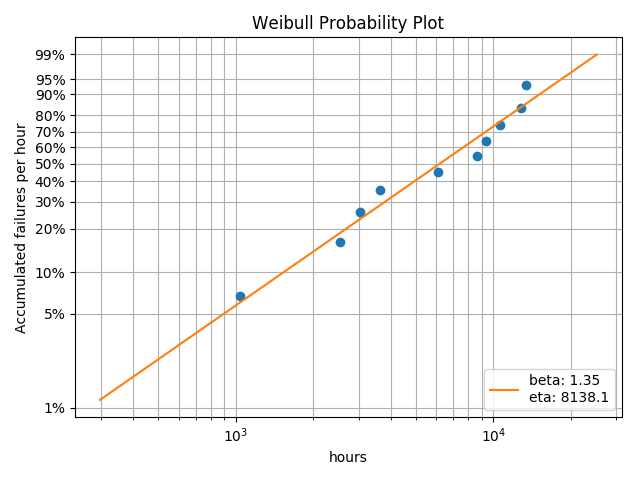
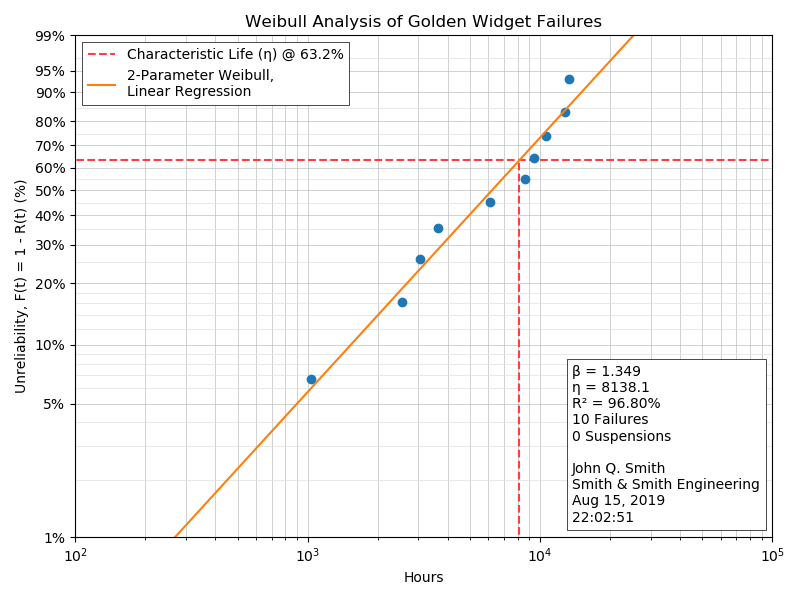
Revisions for 'probplot' enhancements
Added descriptions of new features and explanations for how to use them.

Changed region(s): [[0.0, 0.0312, 1.0, 0.9375], [0.5, 0.9375, 0.5938, 0.9688]]

diff --git a/docs/analysis.rst b/docs/analysis.rst
@@ -71,7 +71,27 @@ Building on the ``analysis`` instance above, we will examine the probability plo
 
 .. image:: images/weibull-fit-10pt.png
 
-We can also examine a number of other common function plots (only the hazard plot is shown, but the others are along the same line).::
+There are some settings for the Weibull probability plots that will allow the user to add more information to the plot itself that are useful when the plot will be included in reports, on web pages, or other situations where the supporting information may not always accompany the plot.  These include being able to specify the Analyst's name and/or the Company or Organization name.
+
+    analysis.analyst = 'John Q. Doe'
+    analysis.company = 'Smith & Smith Engineering'
+
+It should be noted that if either the Analyst or Company name is especially long, the annotation box (where they are displayed) will expand to fit the text which could obscure some portions of the Weibull plot.  To address this, you can place a line feed ('\n') within either name which will force the text to wrap to a shorter length.  These must be defined before calling the ``probplot`` function.
+
+Also, the user can now provide their own more descriptive title for the plot, use the default title, or suppress the title altogether, as follows::
+
+    analysis.plot_title = 'Weibull Analysis of Golden Widget Failures'
+
+Setting the title to a zero-length string (or not defining one at all) will cause the default title of 'Weibull Probability Plot' to be used.  Setting the title to ``None`` will suppress the title line altogether.  Any other value set for ``analysis.plot_title`` will be displayed on the Weibull plot.  This too must be defined before calling the ``probplot`` function.
+
+By default, the probability plot will now be 12 inch x 8 inch (1200 x 800 pixels) to better display enhancements made to the plot format, but it is also possible to change the size of the plot to a different size or aspect ratio by specifying the ``figsize``::
+
+    plt.figure(figsize=(8, 6))
+    analysis.probplot()
+
+where the values of 8 and 6 are in inches (at 100px/inch).  Be aware that generating plots smaller than the default size may result in the Y-Axis labels overlapping one another (especially when analyzing very large data sets), or the annotation box might covering some portion of the Weibull plot or the Characteristic Life line.  You may have to experiment with the size values to get a satisfactory result, and you may also need to use the image resizing features when inserting the image into a document or presentation.
+
+We can also examine a number of other common function plots (only the hazard plot is shown, but the others are along the same line)::
 
     analysis.pdf()
     analysis.sf()
